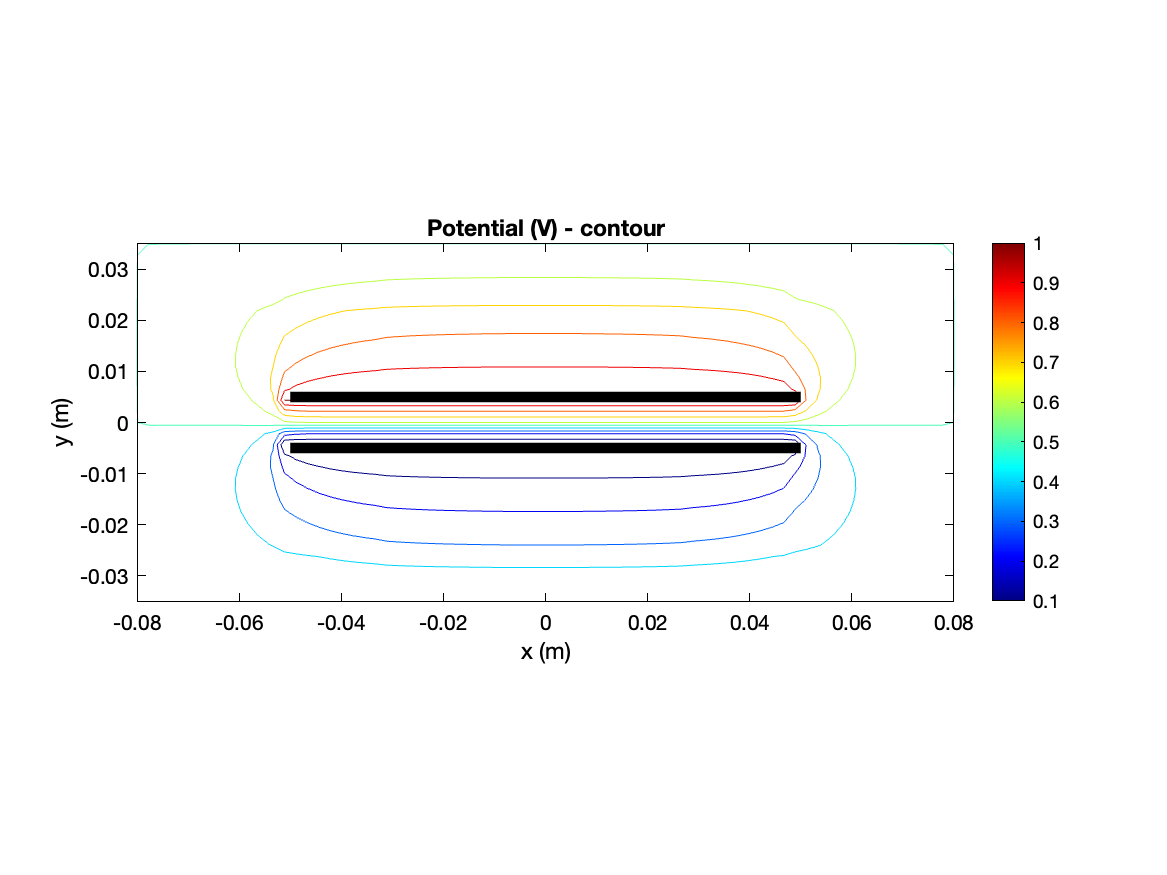
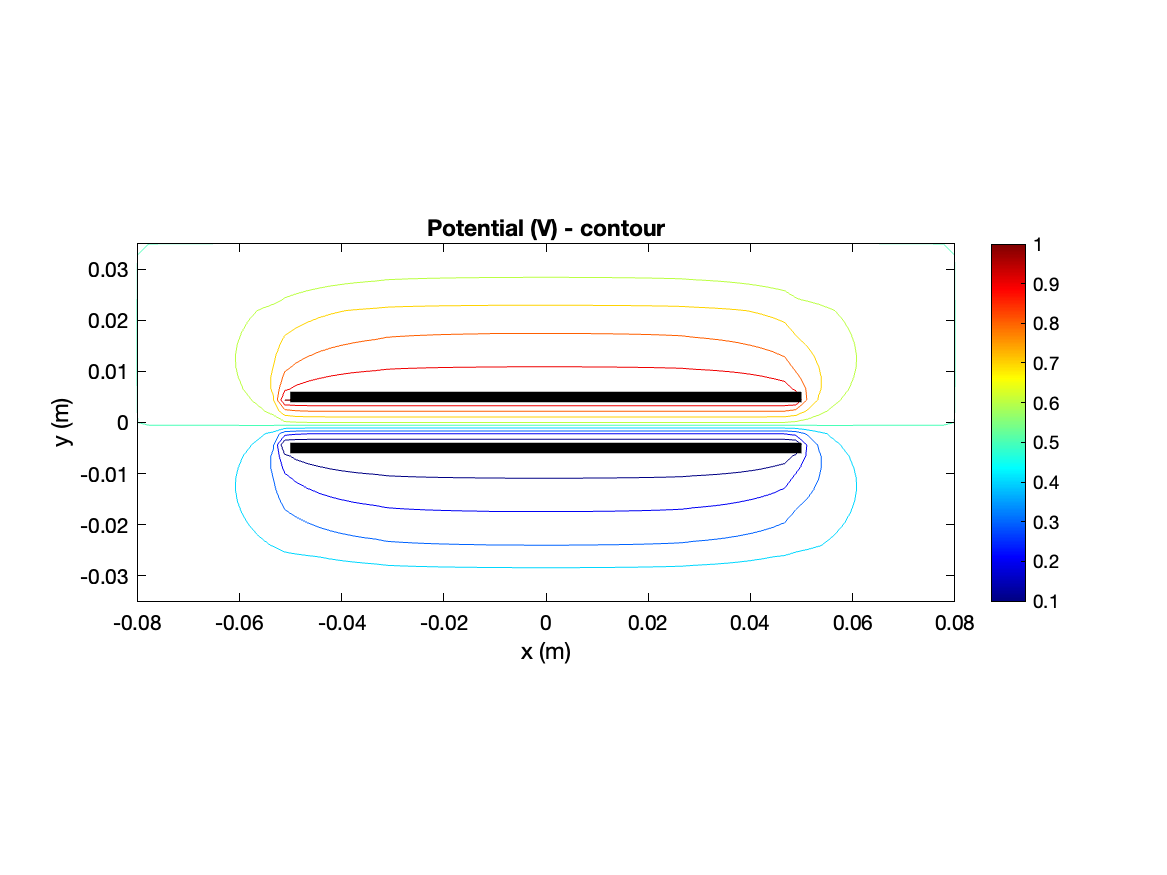
.

diff --git a/FEM_BEM.m b/FEM_BEM.m
@@ -3,27 +3,31 @@
 clear all; close all; clc;
 addpath(genpath('src'));
 
+SALVATAGGIO = 1;
+
 %% SALVATAGGI
+if(SALVATAGGIO == 1)
 
-% Scegli il nome della cartella
-folder_name = './Documentation/figures/coarse';  % cambia qui per ogni run
+    % Scegli il nome della cartella
+    folder_name = './Documentation/figures/fine';  % cambia qui per ogni run
+    
+    % Crea la cartella se non esiste
+    if ~exist(folder_name, 'dir')
+        mkdir(folder_name);
+    end
+    
+    % Nome del file di log
+    log_file = fullfile(folder_name, 'console_output.txt');
+    
+    % Attiva il salvataggio della console
+    diary(log_file)
+    diary on
 
-% Crea la cartella se non esiste
-if ~exist(folder_name, 'dir')
-    mkdir(folder_name);
 end
-
-% Nome del file di log
-log_file = fullfile(folder_name, 'console_output.txt');
-
-% Attiva il salvataggio della console
-diary(log_file)
-diary on
-
 %% === PROBLEM PARAMETERS ===
 dx   = 0.10;          % lunghezza piastre
 dy   = 0.01;          % separazione piastre  →  rapporto dx/dy = 10
-delx = 0.005;         % passo mesh (20 elementi lungo dx, 2 lungo dy)
+delx = 0.002;         % passo mesh (20 elementi lungo dx, 2 lungo dy)
 dely = delx;
 
 margine = 3 * dy;     % = 0.03 m per lato
@@ -205,6 +209,50 @@ ylabel('\partial u / \partial n');
 title('Derivata normale su \Gamma (uscente da \Omega_{int})');
 grid on
 
+
+% Riordina q_FEM nell'ordine geometrico di B_ordered
+q_ordered = q_FEM(perm);
+
+figure('Color','w');
+hold on
+axis equal tight
+
+% Plotta i segmenti di Gamma colorati per valore di q
+n = length(B_ordered);
+for k = 1:n
+    n1 = k;
+    n2 = mod(k, n) + 1;
+    x1 = x(B_ordered(n1)); y1 = y(B_ordered(n1));
+    x2 = x(B_ordered(n2)); y2 = y(B_ordered(n2));
+    q_mid = 0.5*(q_ordered(n1) + q_ordered(n2));
+    plot([x1 x2], [y1 y2], 'Color', ...
+        interp1([-max(abs(q_ordered)) 0 max(abs(q_ordered))], ...
+                [0 0 1; 1 1 1; 1 0 0], q_mid), ...
+        'LineWidth', 4);
+end
+
+n = 256;
+blue  = [0 0 1];
+white = [1 1 1];
+red   = [1 0 0];
+
+cmap = [ ...
+    linspace(blue(1),white(1),n/2)' ...
+    linspace(blue(2),white(2),n/2)' ...
+    linspace(blue(3),white(3),n/2)'; ...
+    linspace(white(1),red(1),n/2)' ...
+    linspace(white(2),red(2),n/2)' ...
+    linspace(white(3),red(3),n/2)' ];
+
+colormap(cmap)
+cb = colorbar;
+clim([-max(abs(q_ordered)) max(abs(q_ordered))]);
+ylabel(cb, '\partial u / \partial n')
+plot(x(ptop_node),    y(ptop_node),    'k', 'LineWidth', 4)
+plot(x(pbottom_node), y(pbottom_node), 'k', 'LineWidth', 4)
+xlabel('x (m)'); ylabel('y (m)')
+title('\partial u / \partial n on \Gamma , E \cdot n , n positive going outside')
+
 % --- Plot densità di carica sulle piastre ---
 figure, clf
 hold on
@@ -263,19 +311,29 @@ C_clean = (1/(V1-V2)^2) * sum(eps_e(good_elm) .* ...
           (Ex(good_elm).^2 + Ey(good_elm).^2) .* area(good_elm));
 disp(['C (NO bad el) = ' num2str(C_clean*1e12) ' pF/m'])
 
+% --- Flusso di E
+fluxE = sum(q_FEM);
+disp(['Flux of E on Gamma = ' num2str(fluxE) ' V*m'])
 
 %% SALVATAGGI
+if(SALVATAGGIO == 1)
 
-% Fine del logging
-diary off
+    % Fine del logging
+    diary off
 
-% Salva tutte le figure
-saveas(figure(1), fullfile(folder_name, 'mesh.png'));
-saveas(figure(2), fullfile(folder_name, 'element_quality.png'));
-saveas(figure(3), fullfile(folder_name, 'potential_map.png'));
-saveas(figure(4), fullfile(folder_name, 'potential_contour.png'));
-saveas(figure(5), fullfile(folder_name, 'efield_map.png'));
-saveas(figure(6), fullfile(folder_name, 'q_gamma.png'));
-saveas(figure(7), fullfile(folder_name, 'charge_density.png'));
-saveas(figure(8), fullfile(folder_name, 'E_histogram.png'));
-saveas(figure(9), fullfile(folder_name, 'bad_elements.png'));
+
+    % Salva tutte le figure
+    saveas(figure(1), fullfile(folder_name, 'mesh.png'));
+    saveas(figure(2), fullfile(folder_name, 'element_quality.png'));
+    saveas(figure(3), fullfile(folder_name, 'potential_map.png'));
+    saveas(figure(4), fullfile(folder_name, 'potential_contour.png'));
+    saveas(figure(5), fullfile(folder_name, 'efield_map.png'));
+    saveas(figure(6), fullfile(folder_name, 'q_gamma.png'));
+    saveas(figure(7), fullfile(folder_name, 'q_gamma_ordered.png'));
+    saveas(figure(8), fullfile(folder_name, 'charge_density.png'));
+    saveas(figure(9), fullfile(folder_name, 'E_histogram.png'));
+    saveas(figure(10), fullfile(folder_name, 'bad_elements.png'));
+end
+
+
+
